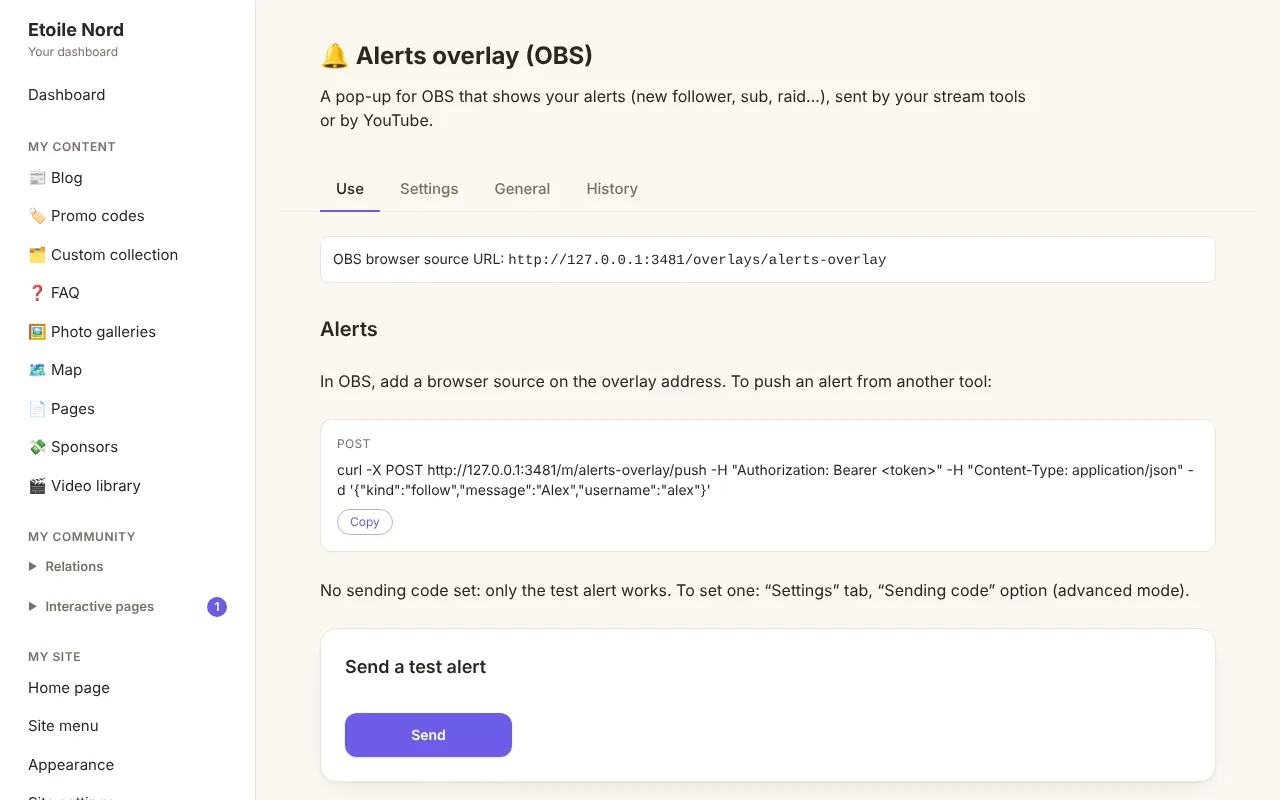
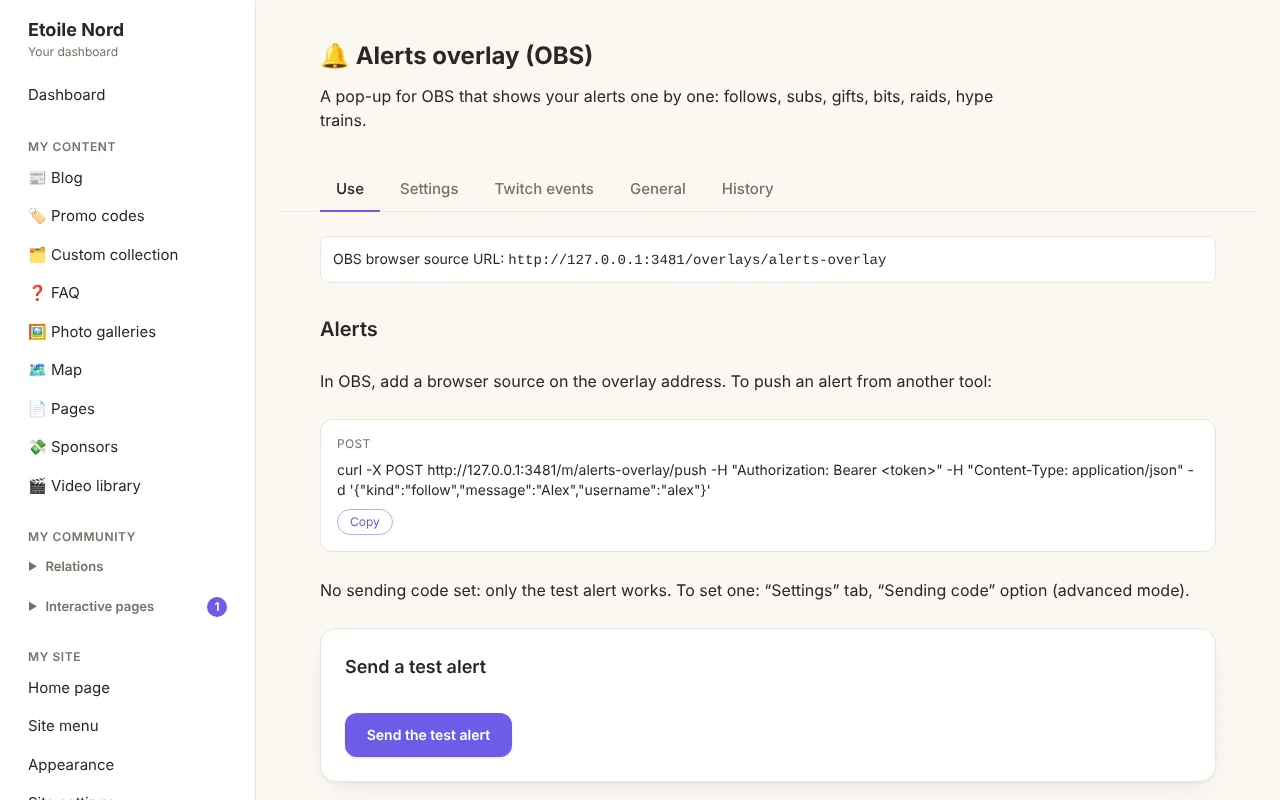
Alerts overlay 1.4.0: documentation, showcase, captures, privacy and i18n fixes
Claude-Session: https://claude.ai/code/session_01ESirMuS3Ser2FpEY9j55tg

diff --git a/docs/TOPICS.md b/docs/TOPICS.md
@@ -50,7 +50,7 @@ Le cœur possède le schéma de ces trois sujets (voir `docs/MODULES.md` du cœu
 | `live.event` | `youtube-live-actions` | `alerts-overlay` | `id`, `platform`, `kind` (`superchat`, `supersticker`, `member`, `gift`), `who`, `at`, et selon le cas `amount` (toujours avec `currency`), `count`, `text` ; en mémoire seulement (15 minutes, 50 au plus) | cœur 0.2.8 |
 | `map.place` | `events`, `directory`, tout module qui a des lieux | `map` | `id`, `title`, `lat` (-90 à 90), `lng` (-180 à 180, jamais le point 0,0, 5 décimales), `kind`, `url?`, `at?` (date ISO), `note?` ; 200 éléments au plus. **Jamais d'adresse personnelle sans consentement** : lieu public ou ville arrondie d'une personne qui a dit oui. La carte n'écrit jamais chez la source | cœur 0.2.11 |
 | `mascot.hint` | `daily-game`, tout module qui a une nouveauté à annoncer | `mascot` | `id` (change quand l'état change), `text` (140 caractères, sans balise), `url?` (page du site) ; 10 au plus. Un module qui n'a rien à dire ne publie rien | cœur 0.2.11 |
-| `twitch.event` | `twitch-events` | `*` (alerts, thanks wall, story, statistics…) | `id`, `type` (`follow`, `sub`, `resub`, `gift`, `cheer`, `raid`, `online`, `offline`, `hype_begin`, `hype_progress`, `hype_end`, `redeem`), `at` (ISO date), `test?`, `replay?`, `missed?`, `of?` (id of the replayed line), `name?`, `login?`, `anonymous?`, `tier?` (`1`, `2`, `3`), `gifted?` (a sub that is part of a gift), `months?`, `streak?`, `count?` (gifted subs), `cumulative?`, `amount?` (bits or channel points), `viewers?`, `text?` (public message, 250 characters), `title?`, `level?`, `total?`, `goal?`, `progress?`, `trainType?`, `shared?`, `contributors?` (up to 3 names), `bestLevel?`, `streamType?`; newest first, 200 at most. **Public data only** (display names, amounts): never an e-mail, an account detail or a token. Consumers deduplicate on `id` | 1.59.0 |
+| `twitch.event` | `twitch-events` | `alerts-overlay`, `*` (thanks wall, story, statistics…) | `id`, `type` (`follow`, `sub`, `resub`, `gift`, `cheer`, `raid`, `online`, `offline`, `hype_begin`, `hype_progress`, `hype_end`, `redeem`), `at` (ISO date), `test?`, `replay?`, `missed?`, `of?` (id of the replayed line), `name?`, `login?`, `anonymous?`, `tier?` (`1`, `2`, `3`), `gifted?` (a sub that is part of a gift), `months?`, `streak?`, `count?` (gifted subs), `cumulative?`, `amount?` (bits or channel points), `viewers?`, `text?` (public message, 250 characters), `title?`, `level?`, `total?`, `goal?`, `progress?`, `trainType?`, `shared?`, `contributors?` (up to 3 names), `bestLevel?`, `streamType?`; newest first, 200 at most. **Public data only** (display names, amounts): never an e-mail, an account detail or a token. Consumers deduplicate on `id` | 1.59.0 |
 
 ## Services entre modules (hors sujets)
 
@@ -58,5 +58,6 @@ Un **service** est un appel direct d'un module à un autre (`ctx.api.services.ca
 
 | Service | Fournisseurs | Appelants | Méthodes | Depuis |
 |---|---|---|---|---|
+| `alerts.queue` | `alerts-overlay` (one answer per overlay, `each`) | `twitch-events` (optional, for its OBS dock) | `state()` → `{ paused, held, staged }` ; `pause()` → `{ paused: true, held }` (new alerts are HELD, in order, kept across a restart) ; `resume()` → `{ paused: false, released }` ; `clear()` → `{ cleared: true, dropped }` (empties what waits and the pages) | 1.62.0 |
 | `game.cover` | `game-covers` | `planning`, `stream-story`, `game-suggestions` (besoin facultatif) | `cover({ title })` → `{ status: "found" \| "none" \| "no-key" \| "refused" \| "unreachable", url, name?, id?, ambiguous?, source? }` ; `candidates({ title, search? })`, `status()`, `fix(…)` (droit « fix »), `adopt(…)`. **Depuis la 1.3.0** : la jaquette est cherchée dans une chaîne de sources (RAWG, puis Steam, puis en dernier secours les jaquettes de boîte de Twitch par le Connecteur Twitch ; aucune clé obligatoire) et `url` est la **copie gardée sur le site** (adresse https absolue `/m/<clé>/cover/<repère>`), jamais celle de la source : le public ne contacte personne. Ajouts compatibles : `source` ("rawg" \| "twitch" \| "steam"), `status().sources`, `keyHeld` ; `ready` et `configured` valent « au moins une source est disponible ». Une copie qui n'est pas encore prête rend `unreachable` (jamais `none`) | 1.0.0 (chaîne : 1.3.0) |
 | `game.played` | `game-suggestions` | `planning` (besoin facultatif, réglage « Ajouter les jeux joués à la liste » coupé par défaut) | `add({ title, via? })` → `{ ok: true, added, status }` ou `{ ok: false, error: "invalid" \| "full" \| "failed" }` : ajoute le jeu en « Déjà joué » s'il n'est pas déjà dans la liste (comparaison sans accents, majuscules ni ponctuation, tous statuts) ; ne modifie jamais une ligne existante ; 100 caractères, un jeu à la fois, plafond de 2000 ; aucune jaquette cherchée | 1.41.0 |

diff --git a/modules/alerts-overlay/README.md b/modules/alerts-overlay/README.md
@@ -37,3 +37,20 @@ The module offers the **Alerts** element ("keeps its proportions", 640 × 260) i
 ## How it enters and leaves (version 1.3.0, core 0.6.0)
 
 Under "More options": by default an alert zooms in lightly and fades out, exactly as before. Pick another way for each direction: slide from the left, right, top or bottom, fade, jiggle or pop, or none; "Same as how it enters" (the default for leaving) plays the entrance backwards. The length of the movement goes from 0.2 to 2 seconds; the alert stays on screen for the display time in between. The choices exist as module settings and as options of the element (default: like the module settings). With reduced motion on the device, any movement becomes a short fade. With every choice on "Default", the page is exactly the previous one. The shared code is `scripts/overlay-transition.mjs`, copied to `transition.mjs` by `node scripts/gen-transition.mjs`.
+
+## Twitch alerts (version 1.4.0)
+
+If the module **Twitch activity** is installed, the follows, subs, resubs, gifted subs, bits, incoming raids, stream start and end, hype trains (and, if you switch them on, channel point rewards) of your channel appear as alerts, **one after the other**.
+The overlay reads the topic `twitch.event` (declared in `consumes`; nothing is required: without the module the page is exactly the one of before, byte for byte, and pushed alerts still replace the alert on screen).
+
+- **Queue.** An alert never replaces one still on screen: they wait their turn (50 at most), with a **pause between two alerts** (setting, 1 second by default). Alerts that come from the topic and pushed alerts all queue when Twitch activity is installed; a pushed alert can still ask to replace the current one with `{"queue": false}`.
+- **Per type** (tab "Twitch events"): a switch, the **text** (plain words with `{name}`, `{count}`, `{amount}`, `{tier}`, `{months}`, `{viewers}`, `{level}`, `{title}`, `{text}`, `{total}`; unknown words are refused under the field), the **time on screen** (2 to 60 seconds, empty = the module duration) and a **minimum** (bits, gifted subs, viewers, points). Three ready-made styles (Simple, Short, Thanks) apply to every type at once. A **test** per type goes through the same writing.
+- **Ignore list** (names) and **messages**: the public message of a resub or of bits is hidden unless you tick "Show the messages that come with an alert" (cut at 140 characters, plain text).
+- **Bursts.** Gifts by the same person (same tier) within the wait window (5 seconds by default, advanced setting, 0 = never) become one alert ("Camille gifts 5 subs"); three or more follows in a row become "N new followers, including …". A gifted sub that belongs to a gift is not announced twice. A raid, a sub, bits and the rest are never delayed.
+- **Pause.** "Pause the alerts" **holds** them (nothing is lost, in order, up to 50, kept across a restart); "Resume the alerts" releases them; "Empty the queue" drops what waits and clears the card and the queue on every page. The same controls are offered to other modules as the service `alerts.queue` (`state`, `pause`, `resume`, `clear`; one answer per overlay).
+- **Memory across a restart.** The ids of the alerts already shown are kept (400 at most), so a restart or an update never shows an alert twice and never loses one that was waiting in the topic (events older than 5 minutes are dropped, so reopening OBS does not replay the evening). A test or a replay (flagged by Twitch activity) ignores the switches, minimums, ignore list and age limit: whoever asks to see an alert sees it.
+- **Nothing runs in the background**: the page (open in OBS) reads the topic at most once every 2 seconds per overlay, like for YouTube.
+- **Tools for assistants** (off by default): `alert_templates_get` (read) and `alert_template_update` (write: switch, text, duration, minimum; nothing is deleted).
+- New permission: `storage` (the configuration of the types, the pause and the ids already shown); `mcp` for the two tools.
+
+Not done yet (next versions): sounds and images per type, animation choice per type, the preview of the alert in the administration.

diff --git a/docs/changelog-parts/alerts-twitch.md b/docs/changelog-parts/alerts-twitch.md
@@ -1,0 +1,26 @@
+## Alerts overlay 1.4.0: your Twitch alerts, one after the other / Overlay alertes 1.4.0 : vos alertes Twitch, l'une après l'autre
+
+*EN: module touched: Alerts overlay 1.4.0 (with Twitch activity 1.0.0 installed). New permission: storage. Nothing to set up: the alerts work with their default sentences. Without Twitch activity, nothing changes.*
+*FR : module touché : Overlay alertes 1.4.0 (avec Activité Twitch 1.0.0 installé). Nouvelle permission : stockage. Rien à régler : les alertes marchent avec leurs phrases d'origine. Sans Activité Twitch, rien ne change.*
+
+### What changes for you / Ce qui change pour vous
+
+- **EN: follows, subs, resubs, gifted subs, bits, raids, stream start and end and hype trains now appear as alerts**, one after the other. An alert never replaces the one on screen; a short pause (1 second by default) separates two alerts.
+- **FR : les follows, abonnements, réabonnements, abonnements offerts, bits, raids, débuts et fins de direct et trains d'enthousiasme s'affichent maintenant en alertes**, l'une après l'autre. Une alerte ne remplace jamais celle qui est à l'écran ; une courte pause (1 seconde par défaut) sépare deux alertes.
+- **EN: a "Twitch events" tab**: for each type a switch, the text, the time on screen and a minimum (bits, gifted subs, viewers). Three ready-made styles, a test per type, a list of names to ignore.
+- **FR : un onglet « Événements Twitch »** : pour chaque type, un interrupteur, le texte, la durée à l'écran et un minimum (bits, abonnements offerts, personnes). Trois styles prêts à l'emploi, un test par type, une liste de pseudos à ignorer.
+- **EN: bursts become one alert**: gifts by the same person ("Camille gifts 5 subs"), many follows in a row ("12 new followers"). A raid, a sub or bits are never delayed.
+- **FR : les rafales deviennent une seule alerte** : cadeaux d'une même personne (« Camille offre 5 abonnements »), nombreux follows d'affilée (« 12 nouveaux follows »). Un raid, un abonnement ou des bits ne sont jamais retardés.
+- **EN: pause the alerts without losing any**: they are held, in order, and come out when you resume; "Empty the queue" drops what waits. Nothing is shown twice after a restart.
+- **FR : mettez les alertes en pause sans en perdre** : elles sont retenues, dans l'ordre, et sortent à la reprise ; « Vider la file » retire ce qui attend. Rien ne s'affiche deux fois après un redémarrage.
+- **EN: messages written by viewers stay hidden** unless you tick "Show the messages that come with an alert".
+- **FR : les messages écrits par le public restent cachés** sauf si vous cochez « Afficher les messages joints aux alertes ».
+- **EN: the two buttons "Send" of the page now say what they do** ("Send the test alert", "Send the fake Super Chat").
+- **FR : les deux boutons « Envoyer » de la page disent maintenant ce qu'ils font** (« Envoyer l'alerte de test », « Envoyer le faux Super Chat »).
+
+### For developers
+
+- `twitch.mjs` (pure engine and per-overlay state: templates, config, `alertFor`, `groupBurst`, staging window, pause/held, memory of ids; stored in collection `twitchAlerts`: documents `config` and `state`), `twitch-admin.mjs` (tab, dialog, actions, the two MCP tools). Topic `twitch.event` consumed (optional), service `alerts.queue` offered (`each`).
+- The page is generated differently ONLY when Twitch activity is installed (title, per-alert duration, pause, clear, queue for everything); otherwise it is byte for byte the page of before (non-regression test unchanged). Pushed alerts: `{ "queue": false }` asks to replace the current alert.
+- Permissions: `storage`, `mcp` added. Settings: `minGapSeconds`, `ignoreNames`, `twitchText`, `groupSeconds` (advanced) on the new tab `twitch`.
+- Tests: `tests/alerts-twitch.test.mjs` (templates, filters, grouping, memory across a restart, pause, the real page with queue, admin, service, tools). Version assertions of the YouTube and element tests updated.

diff --git a/showcase/modules/alerts-overlay/entry.fr.md b/showcase/modules/alerts-overlay/entry.fr.md
@@ -1,10 +1,13 @@
 ## Ce que ça fait
 
-Une fenêtre pour OBS qui montre vos alertes : un nouvel abonné, un abonnement, un raid. Vos outils de stream ou YouTube les envoient.
+Une fenêtre pour OBS qui montre vos alertes une par une : follows, abonnements, cadeaux, bits, raids, trains d'enthousiasme.
 
 - Ajoutez l'adresse de l'overlay comme source navigateur dans OBS.
 - Envoyez une alerte de test d'un seul bouton.
 - Choisissez la couleur d'accent et la durée d'affichage d'une alerte.
+- Montrez vos événements Twitch avec Activité Twitch : un texte, une durée et un minimum par type.
+- Les alertes attendent leur tour, et les cadeaux ou follows en rafale deviennent une seule alerte.
+- Mettez les alertes en pause pendant un moment calme : rien n'est perdu.
 - Affichez le texte des messages YouTube, si vous le souhaitez.
 - Choisissez comment l'alerte arrive et repart : glissement depuis un côté, fondu, rebond ou zoom.
 
@@ -12,6 +15,7 @@ Une fenêtre pour OBS qui montre vos alertes : un nouvel abonné, un abonnement,
 
 - Vous choisissez l'apparence et la couleur d'accent.
 - Vous vérifiez le résultat avant de passer en direct.
+- Rien ne s'affiche deux fois, même après un redémarrage.
 
 ## À quoi ça ressemble
 
@@ -21,9 +25,13 @@ Une fenêtre pour OBS qui montre vos alertes : un nouvel abonné, un abonnement,
 ![Overlay Overlay alertes (OBS) dans OBS, sur fond sombre](shot:overlay.webp)
 *Ce que voit votre public dans OBS.*
 
+![Overlay alertes, l'onglet Événements Twitch, avec des données de démonstration](shot:twitch.webp)
+*Une ligne par type : texte, durée, minimum et un interrupteur.*
+
 ## Ça marche bien avec
 
 - [Ma Chaîne Twitch](entry:twitch-channel)
+- [Activité Twitch](entry:twitch-events)
 - [Actions du live YouTube](entry:youtube-live-actions)
 
 ## Bon à savoir
@@ -33,4 +41,4 @@ Une fenêtre pour OBS qui montre vos alertes : un nouvel abonné, un abonnement,
 
 ## Depuis la version 1.0.0
 
-Disponible depuis la version 1.0.0. Version actuelle : 1.3.0.
+Disponible depuis la version 1.0.0. Version actuelle : 1.4.0.

diff --git a/showcase/modules/alerts-overlay/entry.en.md b/showcase/modules/alerts-overlay/entry.en.md
@@ -1,10 +1,13 @@
 ## What it does
 
-A pop-up for OBS that shows your alerts: a new follower, a subscription, a raid. Your stream tools or YouTube send them.
+A pop-up for OBS that shows your alerts one by one: follows, subs, gifts, bits, raids, hype trains.
 
 - Add the overlay address as a browser source in OBS.
 - Send a test alert with one button.
 - Choose the accent colour and how many seconds an alert stays.
+- Show your Twitch events with Twitch activity: one text, duration and minimum for each type.
+- Alerts wait their turn, and gifts or follows in a burst become one alert.
+- Pause the alerts during a quiet moment: nothing is lost.
 - Show the text of YouTube messages, if you want.
 - Choose how the alert enters and leaves: slide from a side, fade, jiggle or pop.
 
@@ -12,6 +15,7 @@ A pop-up for OBS that shows your alerts: a new follower, a subscription, a raid.
 
 - You choose the look and the accent colour.
 - You can check the result before going live.
+- Nothing is shown twice, even after a restart.
 
 ## How it looks
 
@@ -21,9 +25,13 @@ A pop-up for OBS that shows your alerts: a new follower, a subscription, a raid.
 ![Alerts overlay (OBS) overlay in OBS, on a dark background](shot:overlay.webp)
 *What your audience sees in OBS.*
 
+![Alerts overlay, the Twitch events tab, with demo data](shot:twitch.webp)
+*One row per type: text, duration, minimum and a switch.*
+
 ## Works well with
 
 - [My Twitch channel](entry:twitch-channel)
+- [Twitch activity](entry:twitch-events)
 - [YouTube live actions](entry:youtube-live-actions)
 
 ## Good to know
@@ -33,4 +41,4 @@ A pop-up for OBS that shows your alerts: a new follower, a subscription, a raid.
 
 ## Since version 1.0.0
 
-Available since version 1.0.0. Current version: 1.3.0.
+Available since version 1.0.0. Current version: 1.4.0.
